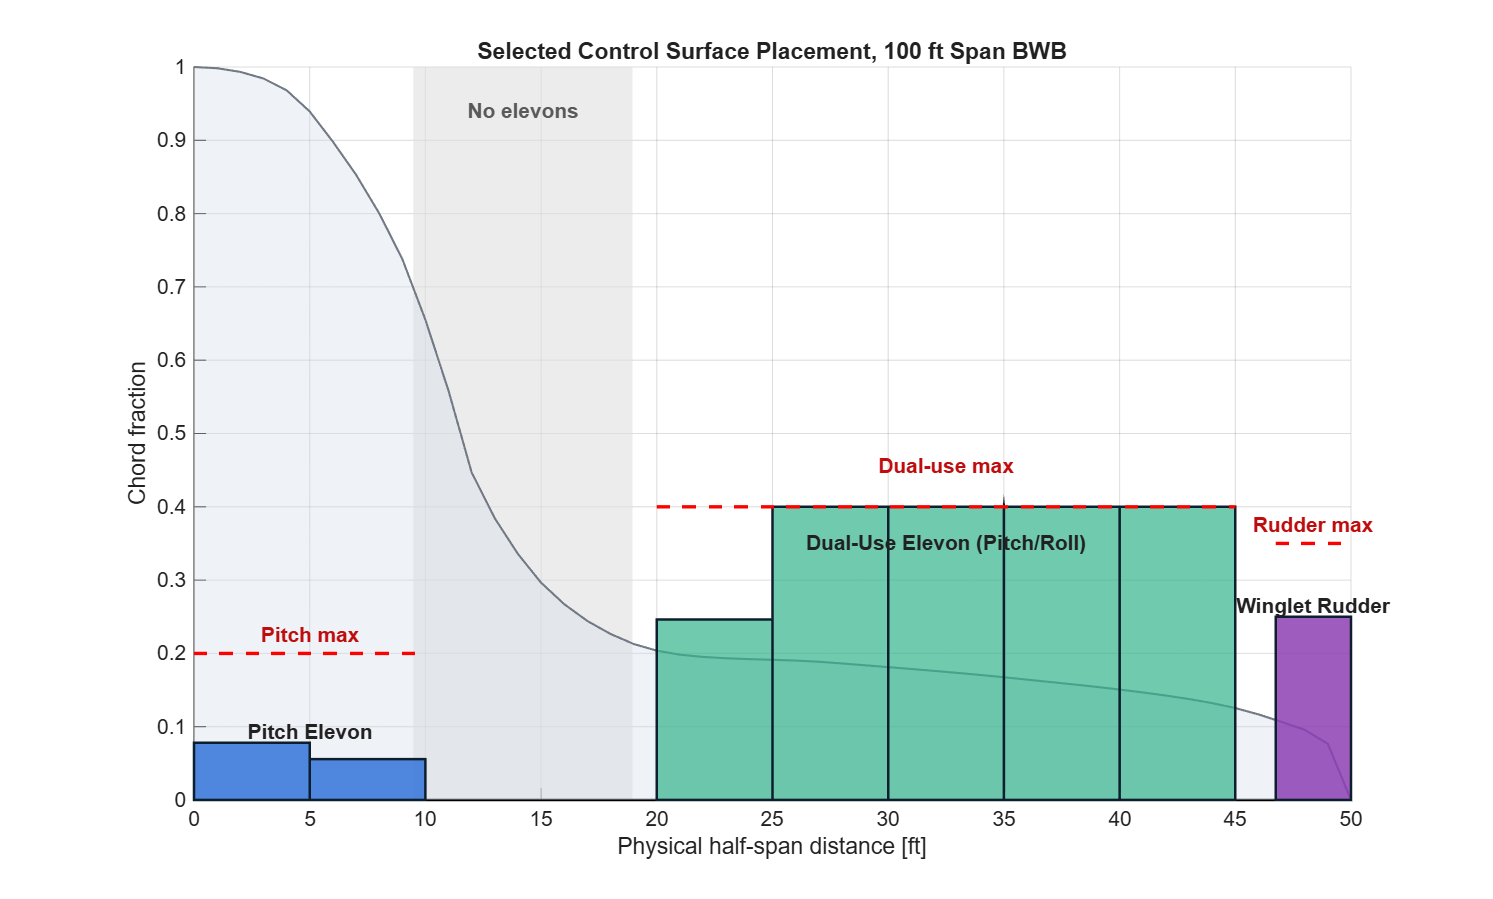
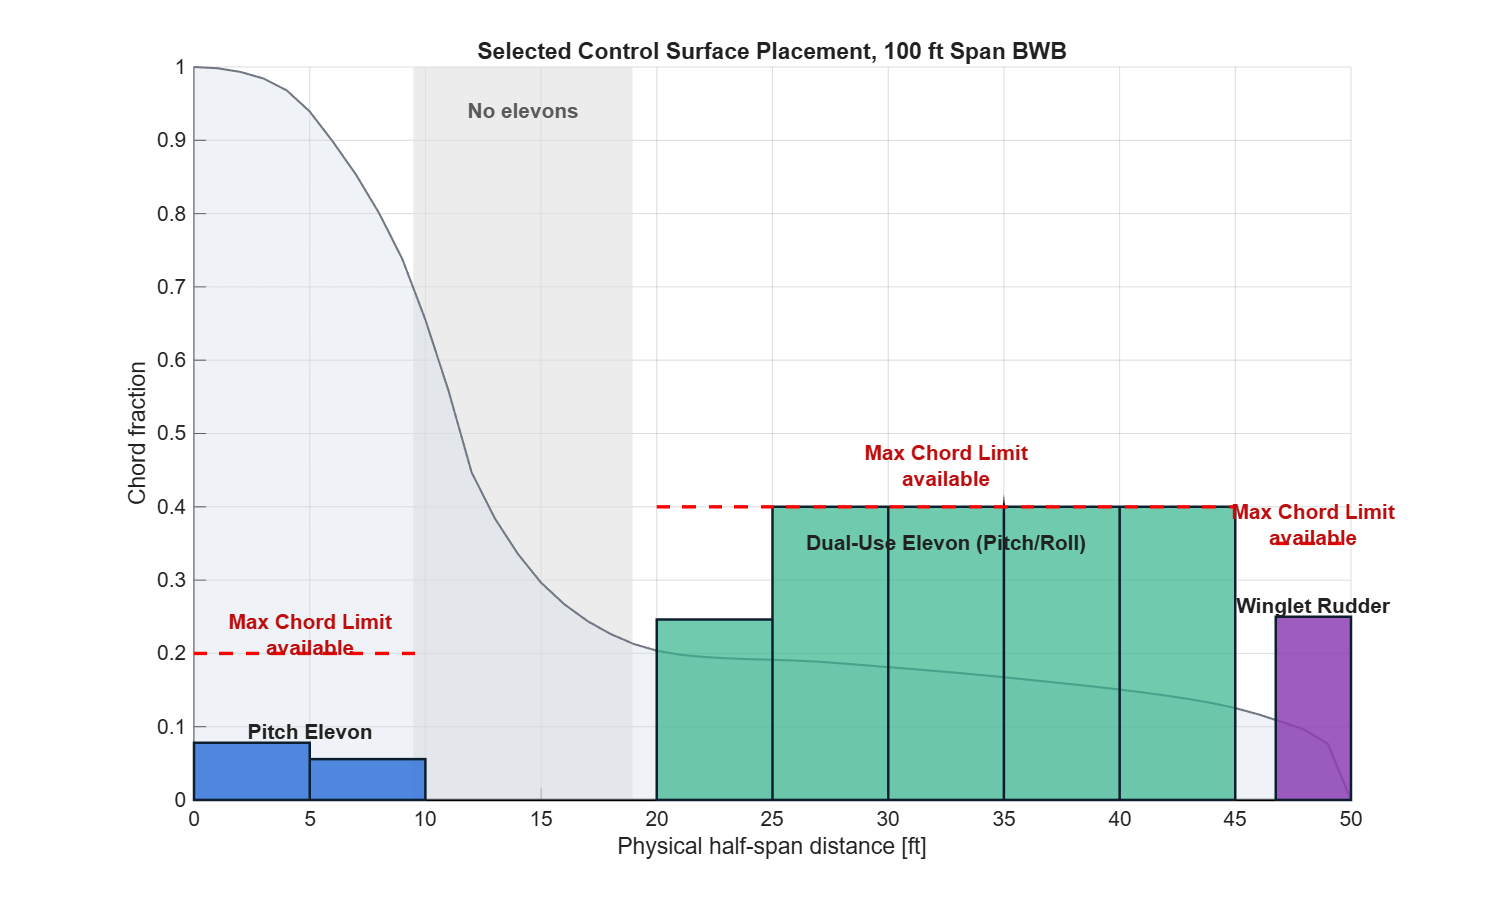
Clarify max chord limits in layout plot

Changed region(s): [[0.8319, 0.5606, 0.9243, 0.6229], [0.5854, 0.4983, 0.7086, 0.5606], [0.1541, 0.6852, 0.2773, 0.7475]]

diff --git a/+DynamicsPkg/PlotSharedElevonAreas.m b/+DynamicsPkg/PlotSharedElevonAreas.m
@@ -41,9 +41,10 @@ patch([RudderIn, RudderOut, RudderOut, RudderIn], ...
     [0, 0, Sizing.Rudder.ChordFraction, Sizing.Rudder.ChordFraction], ...
     [0.55, 0.25, 0.70], "FaceAlpha", 0.85, "EdgeColor", [0.05, 0.12, 0.18], "LineWidth", 1.2);
 
-DrawChordLimit(PitchOnlySegments, FtPerM, max(Sizing.Elevator.ChordFractions), "Pitch max", 0.025);
-DrawChordLimit(DualSegments, FtPerM, max(Sizing.DualElevon.ChordFractions), "Dual-use max", 0.055);
-DrawChordLimitSpan(RudderIn, RudderOut, max(Sizing.Rudder.ChordFractions), "Rudder max", 0.025);
+LimitLabel = sprintf("Max Chord Limit\navailable");
+DrawChordLimit(PitchOnlySegments, FtPerM, max(Sizing.Elevator.ChordFractions), LimitLabel, 0.025);
+DrawChordLimit(DualSegments, FtPerM, max(Sizing.DualElevon.ChordFractions), LimitLabel, 0.055);
+DrawChordLimitSpan(RudderIn, RudderOut, max(Sizing.Rudder.ChordFractions), LimitLabel, 0.025);
 
 PitchLabel = SegmentLabelPoint(PitchOnlySegments, FtPerM, 0);
 DualLabel = SegmentLabelPoint(DualSegments, FtPerM, 0);
@@ -124,7 +125,8 @@ function DrawChordLimitSpan(StationIn, StationOut, ChordLimit, Label, LabelOffse
 
 plot([StationIn, StationOut], [ChordLimit, ChordLimit], "r--", "LineWidth", 1.6);
 text(0.5 * (StationIn + StationOut), ChordLimit + LabelOffset, Label, ...
-    "HorizontalAlignment", "center", "Color", [0.75, 0.05, 0.05], "FontWeight", "bold");
+    "HorizontalAlignment", "center", "Color", [0.75, 0.05, 0.05], ...
+    "FontSize", 10, "FontWeight", "bold");
 
 end
 
